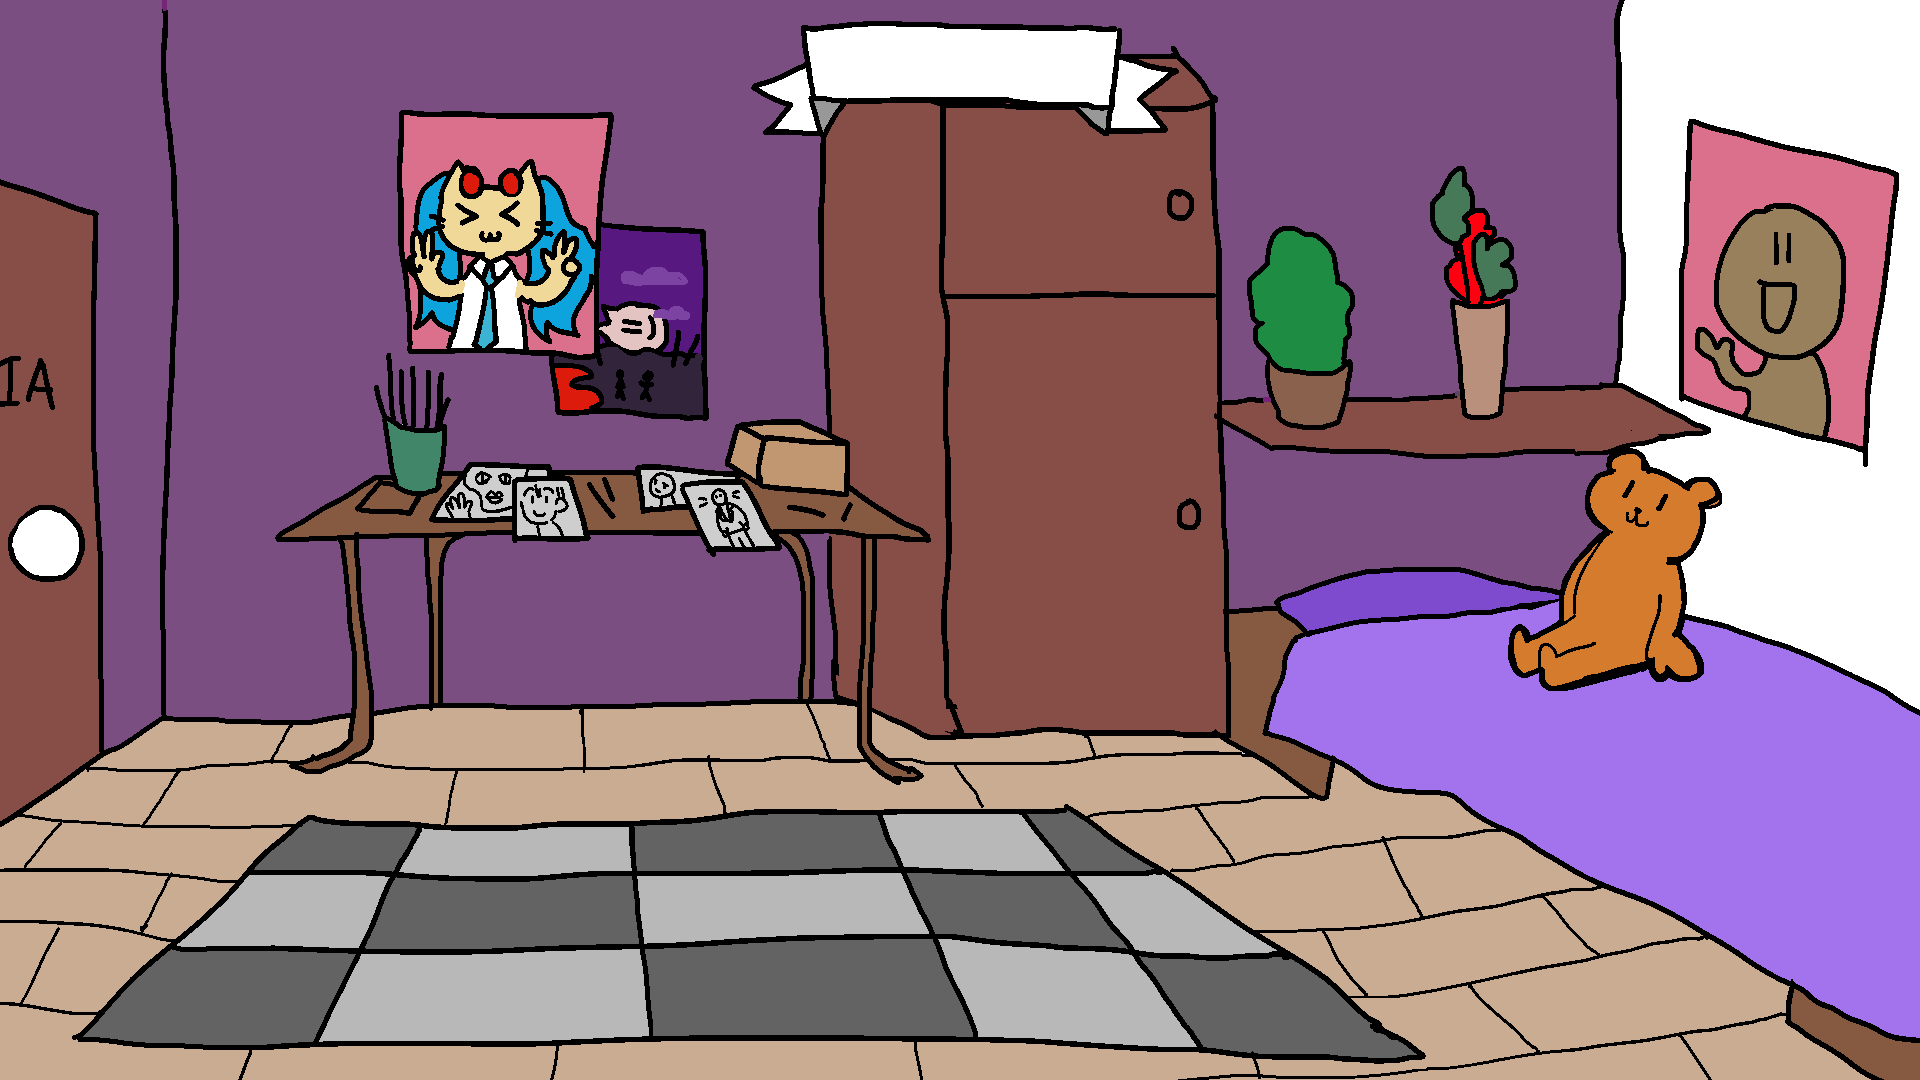
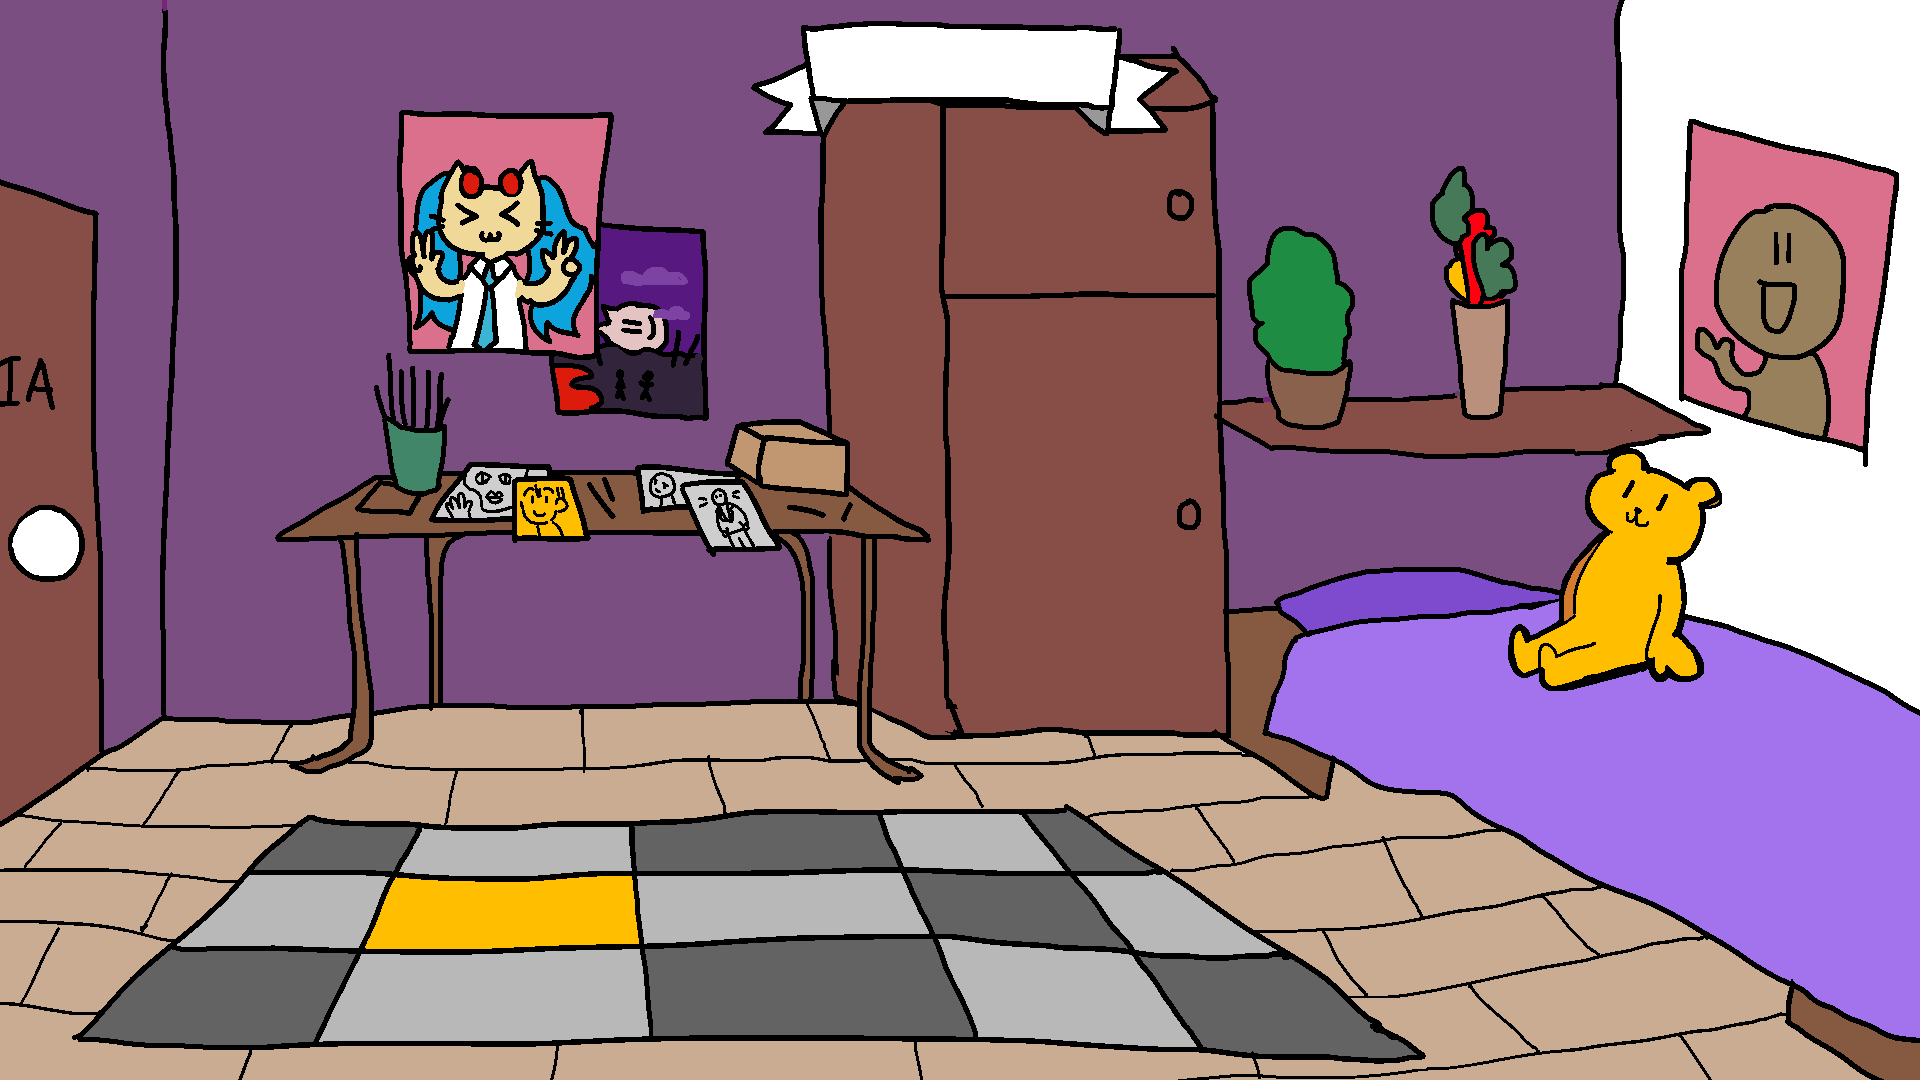
Added More LookHere for Task 1
Ich denke Level 1 sollte jetzt vollständig sein! Das einzige was noch fehlt, ist natürlich dass der Student Progress geupdated wird wenn das Level abgeschlossen wird.

diff --git a/composeApp/src/commonMain/kotlin/Models/Level.kt b/composeApp/src/commonMain/kotlin/Models/Level.kt
@@ -11,6 +11,8 @@ import Models.Scripts.Kevin.kevinScript
 import Models.Scripts.Kevin.kevinTaskExplanationScript
 import Models.Scripts.Kevin.riasZimmerLookHere1
 import Models.Scripts.Kevin.riasZimmerLookHere2
+import Models.Scripts.Kevin.riasZimmerLookHere3
+import Models.Scripts.Kevin.riasZimmerLookHere4
 import Models.Scripts.Oma.omaScript
 import Models.Scripts.Schule.schuleScript
 import Views.LevelOverlays.GameSituation
@@ -38,6 +40,8 @@ suspend fun buildScripts() : MutableList<Level> {
             buildScript(kevinLookHere1, ScriptType.LOOKHERE),
             buildScript(riasZimmerLookHere1, ScriptType.LOOKHERE),
             buildScript(riasZimmerLookHere2, ScriptType.LOOKHERE),
+            buildScript(riasZimmerLookHere3, ScriptType.LOOKHERE),
+            buildScript(riasZimmerLookHere4, ScriptType.LOOKHERE),
             buildScript(kevinPositiveFeedback, ScriptType.POSITIVEFEEDBACK),
             buildScript(kevinNegativeFeedback, ScriptType.NEGATIVEFEEDBACK)
         ),
@@ -86,6 +90,8 @@ suspend fun buildScriptsServer() : MutableList<Level> {
     var kevinLookhere1 : Script
     var kevinLookHere2 : Script
     var kevinLookHere3 : Script
+    var kevinLookHere4 : Script
+    var kevinLookHere5 : Script
 
     var omaProcessedScript : Script
     var schuleProcessedScript : Script
@@ -98,6 +104,8 @@ suspend fun buildScriptsServer() : MutableList<Level> {
         kevinLookhere1 = buildScript(getLocationScriptFromServer(Location.KEVINSHAUS), ScriptType.LOOKHERE)
         kevinLookHere2 = buildScript(getLocationScriptFromServer(Location.KEVINSHAUS), ScriptType.LOOKHERE)
         kevinLookHere3 = buildScript(getLocationScriptFromServer(Location.KEVINSHAUS), ScriptType.LOOKHERE)
+        kevinLookHere4 = buildScript(getLocationScriptFromServer(Location.KEVINSHAUS), ScriptType.LOOKHERE)
+        kevinLookHere5 = buildScript(getLocationScriptFromServer(Location.KEVINSHAUS), ScriptType.LOOKHERE)
 
         omaProcessedScript = buildScript(getLocationScriptFromServer(Location.OMASHAUS), ScriptType.GREETING)
         schuleProcessedScript = buildScript(getLocationScriptFromServer(Location.SCHULE), ScriptType.GREETING)
@@ -110,6 +118,8 @@ suspend fun buildScriptsServer() : MutableList<Level> {
         kevinLookhere1 = buildScript(kevinLookHere1, ScriptType.LOOKHERE)
         kevinLookHere2 = buildScript(riasZimmerLookHere1, ScriptType.LOOKHERE)
         kevinLookHere3 = buildScript(riasZimmerLookHere2, ScriptType.LOOKHERE)
+        kevinLookHere4 = buildScript(riasZimmerLookHere3, ScriptType.LOOKHERE)
+        kevinLookHere5 = buildScript(riasZimmerLookHere4, ScriptType.LOOKHERE)
 
         omaProcessedScript = buildScript(omaScript, ScriptType.GREETING)
         schuleProcessedScript = buildScript(schuleScript, ScriptType.GREETING)
@@ -123,7 +133,9 @@ suspend fun buildScriptsServer() : MutableList<Level> {
             kevinTaskScript,
             kevinLookhere1,
             kevinLookHere2,
-            kevinLookHere3
+            kevinLookHere3,
+            kevinLookHere4,
+            kevinLookHere5
         ),
         helpContents = listOf(
             HelpContent(GameSituation.GREETINGDIALOGUE, "hi", "hi")

diff --git a/composeApp/src/commonMain/kotlin/Models/Scripts/Kevin/RiaszimmerLookHere2.kt b/composeApp/src/commonMain/kotlin/Models/Scripts/Kevin/RiaszimmerLookHere2.kt
@@ -5,23 +5,37 @@ val riasZimmerLookHere2 = """
         {
             "dialogueLine": "Könnte es sein, dass sie das hier mit süß meint?",
             "speaker": "JUSTIN",
-            "speakermood": "HAPPY",
+            "speakermood": "NEUTRAL",
             "listener": "KEVIN",
-            "listenermood": "HAPPY"
+            "listenermood": "NEUTRAL"
         },
         {
-            "dialogueLine": "Ich denke schon, sie redet in letzter Zeit nur davon...",
+            "dialogueLine": "Was denn, diesem komischen Kollegen hier? Bestimmt nicht...",
             "speaker": "KEVIN",
             "speakermood": "NEUTRAL",
             "listener": "JUSTIN",
             "listenermood": "NEUTRAL"
         },
         {
-            "dialogueLine": "Ich glaube wir sind auf der richtigen Spur!",
+            "dialogueLine": "Also ich finde den gar nicht so komisch.",
             "speaker": "JUSTIN",
-            "speakermood": "HAPPY",
+            "speakermood": "NEUTRAL",
             "listener": "KEVIN",
-            "listenermood": "HAPPY"
+            "listenermood": "NEUTRAL"
+        },
+        {
+            "dialogueLine": "Und gelb ist der eigentlich auch, oder?",
+            "speaker": "JUSTIN",
+            "speakermood": "NEUTRAL",
+            "listener": "KEVIN",
+            "listenermood": "NEUTRAL"
+        },
+        {
+            "dialogueLine": "Ich weiß ja nicht... Vielleicht...",
+            "speaker": "KEVIN",
+            "speakermood": "NEUTRAL",
+            "listener": "JUSTIN",
+            "listenermood": "NEUTRAL"
         }
     ]
 """.trimIndent()

diff --git a/composeApp/src/commonMain/kotlin/Models/Scripts/Kevin/RiaszimmerLookHere3.kt b/composeApp/src/commonMain/kotlin/Models/Scripts/Kevin/RiaszimmerLookHere3.kt
@@ -1,0 +1,34 @@
+package Models.Scripts.Kevin
+
+val riasZimmerLookHere3 = """
+    [
+        {
+            "dialogueLine": "Das sieht gelb aus.",
+            "speaker": "KEVIN",
+            "speakermood": "NEUTRAL",
+            "listener": "JUSTIN",
+            "listenermood": "NEUTRAL"
+        },
+        {
+            "dialogueLine": "Aber das hat sie erst gestern gemalt...",
+            "speaker": "KEVIN",
+            "speakermood": "NEUTRAL",
+            "listener": "JUSTIN",
+            "listenermood": "NEUTRAL"
+        },
+        {
+            "dialogueLine": "Ich glaube sie würde eher etwas meinen, was immer hier ist, oder?",
+            "speaker": "KEVIN",
+            "speakermood": "NEUTRAL",
+            "listener": "JUSTIN",
+            "listenermood": "NEUTRAL"
+        },
+        {
+            "dialogueLine": "Ich denke das würde Sinn machen, ja...",
+            "speaker": "JUSTIN",
+            "speakermood": "NEUTRAL",
+            "listener": "KEVIN",
+            "listenermood": "NEUTRAL"
+        }
+    ]
+""".trimIndent()

diff --git a/composeApp/src/commonMain/kotlin/Models/Scripts/Kevin/KevinPositiveFeedback.kt b/composeApp/src/commonMain/kotlin/Models/Scripts/Kevin/KevinPositiveFeedback.kt
@@ -101,7 +101,21 @@ val kevinPositiveFeedback = """
             "listenermood": "HAPPY"
         },
         {
-            "dialogueLine": "Keine Sorge, du kannst deine Passwörter auch regelmäßig ändern!",
+            "dialogueLine": "(Ach Kevin... Ich weiß...)",
+            "speaker": "JUSTIN",
+            "speakermood": "SAD",
+            "listener": "KEVIN",
+            "listenermood": "SAD"
+        },
+        {
+            "dialogueLine": "(Irgendwie muss Ria ja das originale Passwort geknackt haben...)",
+            "speaker": "JUSTIN",
+            "speakermood": "SAD",
+            "listener": "KEVIN",
+            "listenermood": "SAD"
+        },
+        {
+            "dialogueLine": "Aber keine Sorge, du kannst deine Passwörter auch regelmäßig ändern!",
             "speaker": "JUSTIN",
             "speakermood": "NEUTRAL",
             "listener": "KEVIN",

diff --git a/composeApp/src/commonMain/kotlin/Models/Scripts/Kevin/RiasZimmerLookHere4.kt b/composeApp/src/commonMain/kotlin/Models/Scripts/Kevin/RiasZimmerLookHere4.kt
@@ -1,0 +1,27 @@
+package Models.Scripts.Kevin
+
+val riasZimmerLookHere4 = """
+    [
+        {
+            "dialogueLine": "Ich frage mich immer noch was das für merkwürdige Poster sein sollen?",
+            "speaker": "KEVIN",
+            "speakermood": "NEUTRAL",
+            "listener": "JUSTIN",
+            "listenermood": "NEUTRAL"
+        },
+        {
+            "dialogueLine": "Keine Ahnung...",
+            "speaker": "JUSTIN",
+            "speakermood": "NEUTRAL",
+            "listener": "KEVIN",
+            "listenermood": "NEUTRAL"
+        },
+        {
+            "dialogueLine": "Aber zumindest ist keines davon ist gelb...",
+            "speaker": "JUSTIN",
+            "speakermood": "NEUTRAL",
+            "listener": "KEVIN",
+            "listenermood": "NEUTRAL"
+        }
+    ]
+""".trimIndent()

diff --git a/composeApp/src/commonMain/kotlin/LocationHandler.kt b/composeApp/src/commonMain/kotlin/LocationHandler.kt
@@ -66,8 +66,16 @@ enum class Room {
     // HAB NOCH NICHT ALLES AUSGEFÜLLT...
     fun getRoomLookHeres() : List<LookHere> {
         return when(this) {
-            KEVINSZIMMER -> listOf(LookHere(350.dp, 150.dp, 0), LookHere(900.dp, 100.dp, 1))
-            RIASZIMMER -> listOf(LookHere(400.dp, 550.dp, 2), LookHere(1050.dp, 340.dp, 3))
+            KEVINSZIMMER -> listOf(
+                LookHere(350.dp, 140.dp, 0),
+                LookHere(900.dp, 100.dp, 1)
+            )
+            RIASZIMMER -> listOf(
+                LookHere(350.dp, 550.dp, 2),
+                LookHere(1050.dp, 340.dp, 3),
+                LookHere(320.dp, 280.dp, 4),
+                LookHere(300.dp, 100.dp, 5)
+            )
             OMAKUECHE -> listOf()
             OMAWOHNZIMMER -> listOf()
             JUSTINFLUR -> listOf()

diff --git a/composeApp/src/commonMain/kotlin/Views/LevelOverlays/TaskView.kt b/composeApp/src/commonMain/kotlin/Views/LevelOverlays/TaskView.kt
@@ -156,7 +156,7 @@ fun TestTaskView(navigator : Navigator, onMove : () -> Unit, onFinishCorrect : (
                     Text(modifier = Modifier, text = "Hinweis: süßundgelb22", fontWeight = FontWeight.Bold)
 
                     if(submitted){
-                        if(text == "Hello World") {
+                        if(text == "teddy22") {
                             onFinishCorrect()
                             // Text("Die Eingabe war richtig")
                             levels[0].cleared = true
